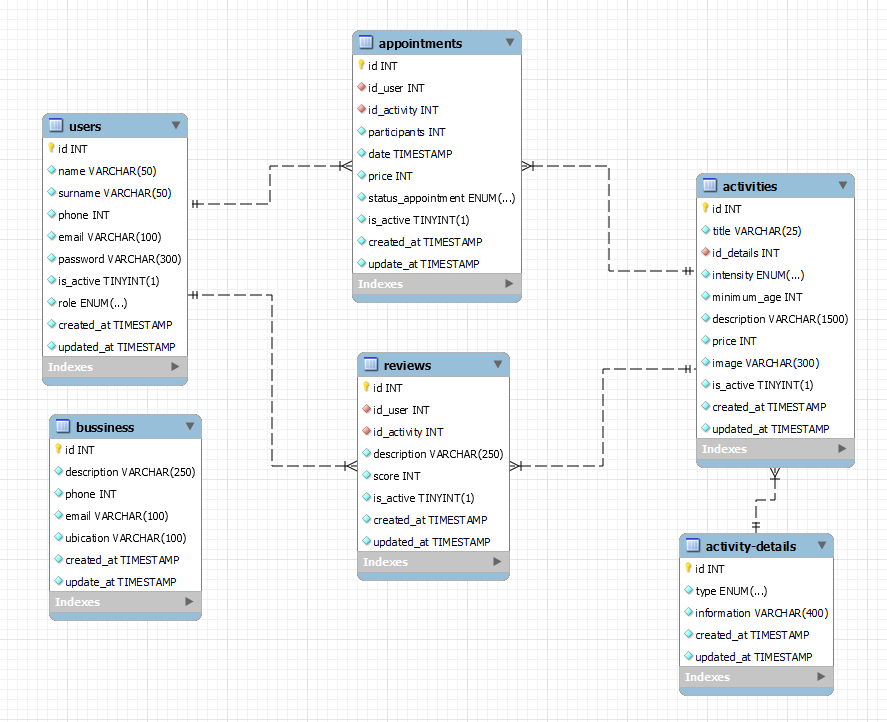
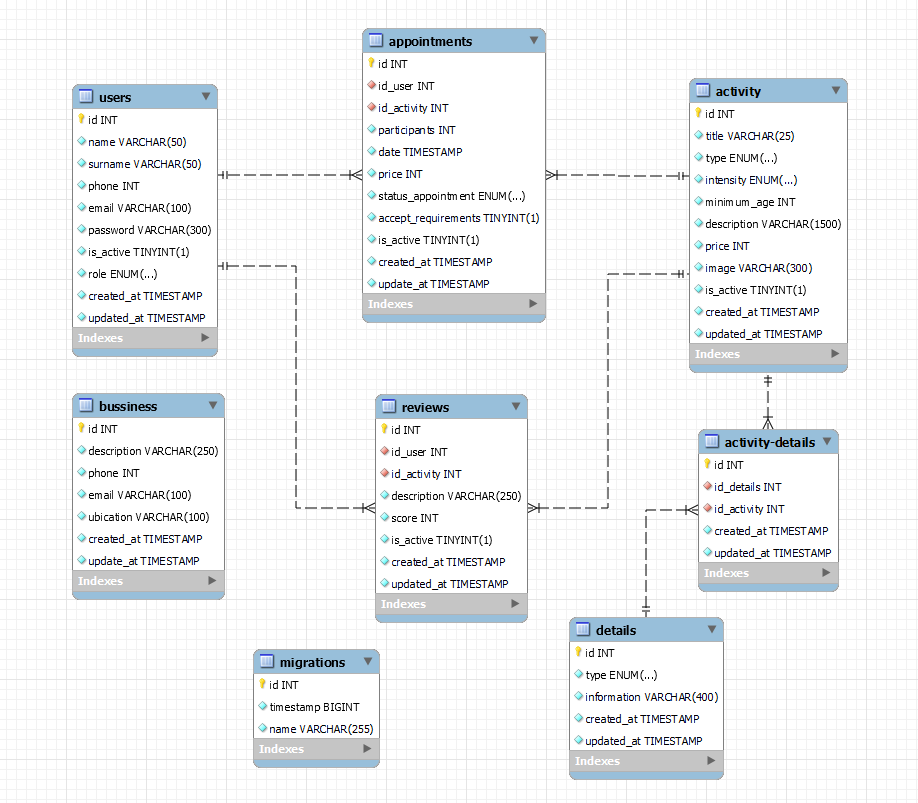
Feat: Include in the Readme the routes I created today and we perfect the code.

diff --git a/src/routes/activitiesRoutes.ts b/src/routes/activitiesRoutes.ts
@@ -7,7 +7,7 @@ export {router}
 //Crear actividad
 router.post("/", createActivity);
 //Modificar una actividad
-router.post("/updated", updateActivity);
+router.put("/", updateActivity);
 //Recuperar una actividad por el id
 router.get("/", getActivityById);
 //Recuperar las actividades por el Type

diff --git a/README.md b/README.md
@@ -1,3 +1,4 @@
+
 # <h1 align="center">README -  Dinamic Adventure </h1>
 __<p align="center">Proyecto Final - Full Stack Developer Bootcamp en GeeksHubs Academy </p>__
 
@@ -8,7 +9,7 @@ __<p align="center">Proyecto Final - Full Stack Developer Bootcamp en GeeksHubs 
 </p>
 
 
-### 📋 Contenido del Readme
+## 📋 Contenido del Readme
 
 <details> <summary>Accede al contenido del Readme</summary>
 
@@ -27,9 +28,10 @@ __<p align="center">Proyecto Final - Full Stack Developer Bootcamp en GeeksHubs 
 
 ## 🚀 Descripción
 
-Este proyecto del Bootcamp Full Stack está enfocado en backend de una empresa de deportes de aventura llamada Dinamic Adventure, haciendo uso de tecnologías como Node.js, TypeScript, Express, MySQL, GIT y GitHub.  El desarrollo de este proyecto se basa en una base de datos relacional gestionada con TypeORM.
+Este proyecto del Bootcamp Full Stack está enfocado en backend de una empresa de deportes de aventura, haciendo uso de tecnologías como Node.js, TypeScript, Express, MySQL, GIT y GitHub.  El desarrollo de este proyecto se basa en una base de datos relacional gestionada con TypeORM.
  
-La aplicación busca superar las limitaciones actuales de la plataforma, transformándola en una herramienta completa que no solo permite a los usuarios visualizar las actividades, sino que permite reservar y también optimiza la gestión interna, reduciendo significativamente la carga administrativa.El enfoque principal es crear un backend eficiente y escalable que permita a los usuarios visualizar y reservar actividades de manera óptima.
+La aplicación busca superar las limitaciones actuales de la plataforma, transformándola en una herramienta completa que no solo permite a los usuarios visualizar las actividades, sino que permite registrar un usuario, comprobar la disponibilidad, reservar una actividad y como consecuencia, optimiza la gestión interna, reduciendo significativamente la carga administrativa.
+El enfoque principal es crear un backend eficiente y escalable que permita a los usuarios visualizar, comprobar la disponibilidad, registrarse en la plataforma y reservar actividades de manera óptima.
 
 <div align="center">
       <img src="./src/img_readme/plataforma-previa.gif" style="max-width: 100%">
@@ -49,7 +51,7 @@ El proyecto de Dinamic Adventure tiene como objetivo principal desarrollar un si
 
 - **Optimización interna:** Automatizar la gestión de las actividades y estados de las reservas. 
 
-En resumen, el proyecto tiene como objetivo principal la creación de un sistema completo de gestión de actividades para Dinamic Adventure, asegurando una experiencia de usuario intuitiva y segura tanto para clientes como para la empresa.
+En resumen, el proyecto tiene como objetivo principal la creación de un sistema completo de gestión de actividades para la empresa, Dinamic Adventure, asegurando una experiencia de usuario intuitiva y segura tanto para clientes como para la empresa.
 
 
 ## 🛠 Tecnologías Utilizadas
@@ -83,7 +85,7 @@ Para desarrollar este proyecto, he hecho uso de las siguientes tecnologías:
       <img src="./src/img_readme/reverse-engineer.png" style="max-width: 100%">
    </div>    
    <div align="center">
-    <em>Diseño de base de datos</em>
+    <em>Diseño de la base de datos</em>
     </div>  
 </p>
 
@@ -134,15 +136,243 @@ Para desarrollar este proyecto, he hecho uso de las siguientes tecnologías:
             Auth : User 
             Barer token : Token
  
-        
+4. Modificar los datos del usuario.
+    - Descripción: Modificamos los datos del usuario a través del id que tenemos almacenado en redux.
+
+            PUT localhost:4000/user
+
+        Auth:
+
+            Auth : User 
+            Barer token : Token
        
-4. Obtener todos los usuarios.
+        Body:
+
+            JSON
+            {
+                "name": "Marta",
+                "email": "martaguillem@outlook.es",
+                "surname": "Guillem",
+                "phone": 627840804,              
+            }
+
+> [!NOTE]
+> Estos son todos los campos que podemos modificar de nuestro perfil. No obstante, podemos modificar uno o más campos; no es necesario enviarlos todos para que se procese la solicitud.
+
+5. Modificar el password.
+    - Descripción: Creamos una ruta única para modificar el password. 
+    Antes de realizar la modificación, solicitamos a través del body nueva contraseña y la antigua para comprobar que es la misma que teníamos almacenada en la base de datos y procesar la solicitud.
+
+            PATCH localhost:4000/user/password
+
+        Auth:
+
+            Auth : User 
+            Barer token : Token
+       
+        Body:
+
+            JSON
+            {
+                "password": "1234567",
+                "passwordOld": "123456"             
+            }
+
+> [!NOTE]
+> Antes de realizar la llamada a la base de datos, comprobamos que la nueva contraeña no sea igual a la que queremos modificar, para evitar una llamada inecesaria a la API.
+
+6. Inactivar una cuenta.
+    - Descripción: Hemos creado una ruta única para inactivar la cuenta. Recuperamos el id del usuario a través del token almacenado en redux.
+
+            PUT localhost:4000/user/account
+
+        Auth:
+
+            Auth : User 
+            Barer token : Token
+       
+        Body:
+
+            JSON
+            {
+                "is_active": "false"            
+            }
+
+> [!IMPORTANT]
+> Para poder acceder a todas las rutas que requieren de token, se comprueba previamente si el token está activo o no. En el caso que el usuario inactive la cuenta no podrá acceder a ninguna de esas vistas.
+
+7. Obtener todos los usuarios.
     - Descripción: Obtener los datos de todos los usuarios.
 
             GET localhost:4000/user
 
 </details>
 
+<details>
+<summary>/activity</summary>
+<br>
+
+1. Crear una actividad.
+    - Descripción: Creamos una nueva actividad, recuperando la información de los campos requeridos a través del body.
+
+            POST localhost:4000/activity
+
+        Body:
+
+             JSON
+            {
+                "title": "Rafting",
+                "type": "acuatica",
+                "intensity": "medium",
+                "minimum_age": 9,
+                "description": "La mejor actividad",
+                "price": 30,
+                "image": "https://t4.ftcdn.net/jpg/00/64/67/63/360_F_64676383_LdbmhiNM6Ypzb3FM4PPuFP9rHe7ri8Ju.webp"
+            }
+        
+2. Recuperar una actividad.
+    - Descripción: Obtenemos una actividad a través del id que obtenemos a través del body.
+
+            POST localhost:4000/activity 
+
+        Body:
+
+             JSON
+            {
+                "id": 1
+            }
+
+3. Recuperamos las actividades según el tipo.
+    - Descripción: Contamos con dos tipos de actividades, terrestres o acuáticas. El tipo de actividad se recupera a través del body.
+
+            GET localhost:4000/activity/type 
+
+        Body:
+
+             JSON
+            {
+                "type": "acuatica"
+            }
+ 
+4. Recuperamos todas las actividades.
+    - Descripción: Recuperamos todas las actividades que tenemos almacenadas en la base de datos sin restricciones.
+
+            GET localhost:4000/activity/all
+
+5. Modificar los datos de la actividad.
+    - Descripción: Modificamos los datos de la actividad a través del id que hemos recuperado a través del body.
+
+            PUT localhost:4000/activity
+       
+        Body:
+
+            JSON
+            {
+                "id": "1",
+                "title": "Rafting de aguas bravas",
+                "type": "acuatica",
+                "intensity": "medium",
+                "minimum_age": 9,
+                "description": "La mejor actividad",
+                "price": 30,
+                "image": "https://t4.ftcdn.net/jpg/00/64/67/63/360_F_64676383_LdbmhiNM6Ypzb3FM4PPuFP9rHe7ri8Ju.webp"             
+            }
+
+> [!NOTE]
+> Estos son todos los campos que podemos modificar. No obstante, podemos modificar uno o más campos; no es necesario enviarlos todos para que se procese la solicitud.
+
+6. Eliminar una actividad.
+    - Descripción: Eliminamos una actividad por su id, este lo recuperamos a través del body.
+
+            DELETE localhost:4000/activity
+
+        Body:
+
+            JSON
+            {
+                "id": "1"           
+            }
+
+</details>
+
+<details>
+<summary>/details</summary>
+<br>
+
+1. Crear un detalle.
+    - Descripción: Creamos un nuevo detalle, recuperando la información de los campos requeridos a través del body.
+
+            POST localhost:4000/details
+
+        Body:
+
+             JSON
+            {
+                "type": "details",
+                "information": "Soy el detalle de la iformacion, aqui va el primero, flipa"
+            }
+> [!NOTE]
+> En el caso que ya exista un detalle ya en nuestra base de datos con las mismas características no se realizará la solicitud.
+        
+2. Recuperar un detalle.
+    - Descripción: Obtenemos un detalle a través del id que obtenemos a través del body.
+
+            POST localhost:4000/details 
+
+        Body:
+
+             JSON
+            {
+                "id": 1
+            }
+
+3. Recuperamos las actividades según el tipo.
+    - Descripción: Contamos tres tipos; "requiriments", "details", "itinerary". El tipo se recupera a través del body.
+
+            GET localhost:4000/details/type 
+
+        Body:
+
+             JSON
+            {
+                "type": "details"
+            }
+ 
+4. Recuperamos todos los detalles.
+    - Descripción: Recuperamos todos los detalles que tenemos almacenadas en la base de datos sin restricciones.
+
+            GET localhost:4000/details/all
+
+5. Modificar un detalle por el Id.
+    - Descripción: Modificamos los datos del detalle a través del id que hemos recuperado a través del body.
+
+            PUT localhost:4000/details
+       
+        Body:
+
+            JSON
+            {
+                "id": "9",
+                "type": "itinerary",
+                "information": "9.00h Quedamos con vosotros en nuestras instalaciones."
+            }
+
+> [!NOTE]
+> Estos son todos los campos que podemos modificar. No obstante, podemos modificar uno o más campos; no es necesario enviarlos todos para que se procese la solicitud.
+
+6. Eliminar un detalle.
+    - Descripción: Eliminamos un detalle por su id, este lo recuperamos a través del body.
+
+            DELETE localhost:4000/details
+
+        Body:
+
+            JSON
+            {
+                "id": "1"           
+            }
+
+</details>
 
 ## ⚙ Instrucciones de uso
 
